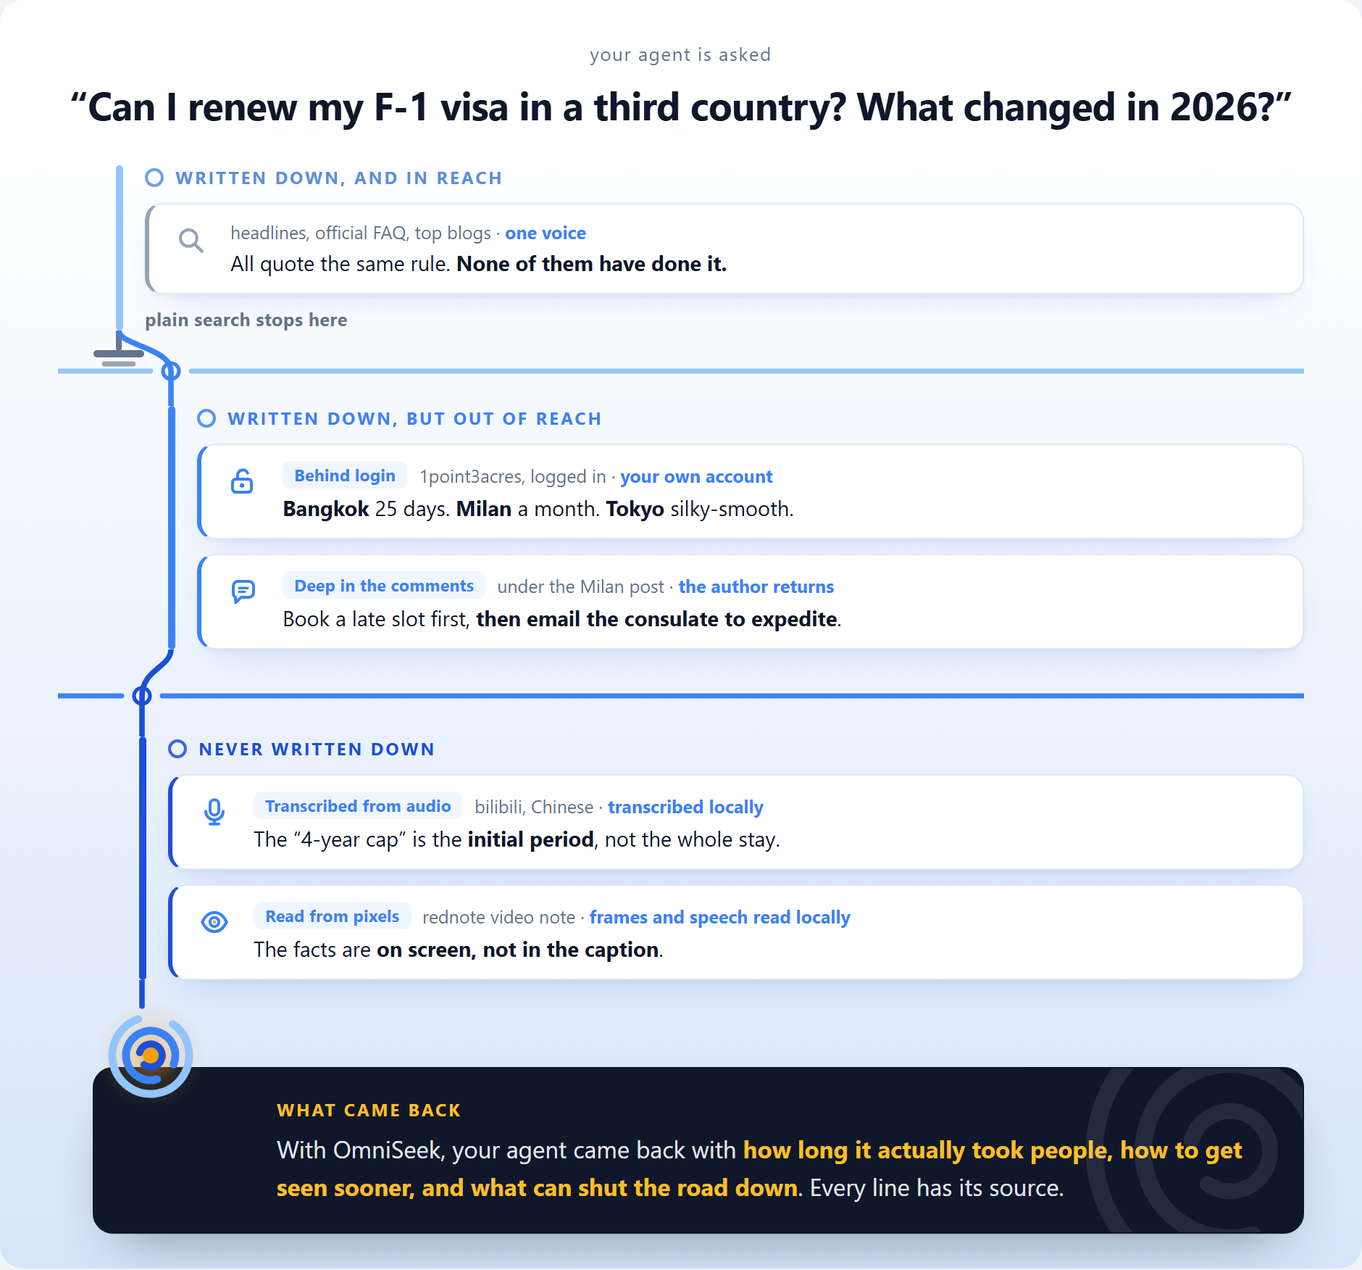
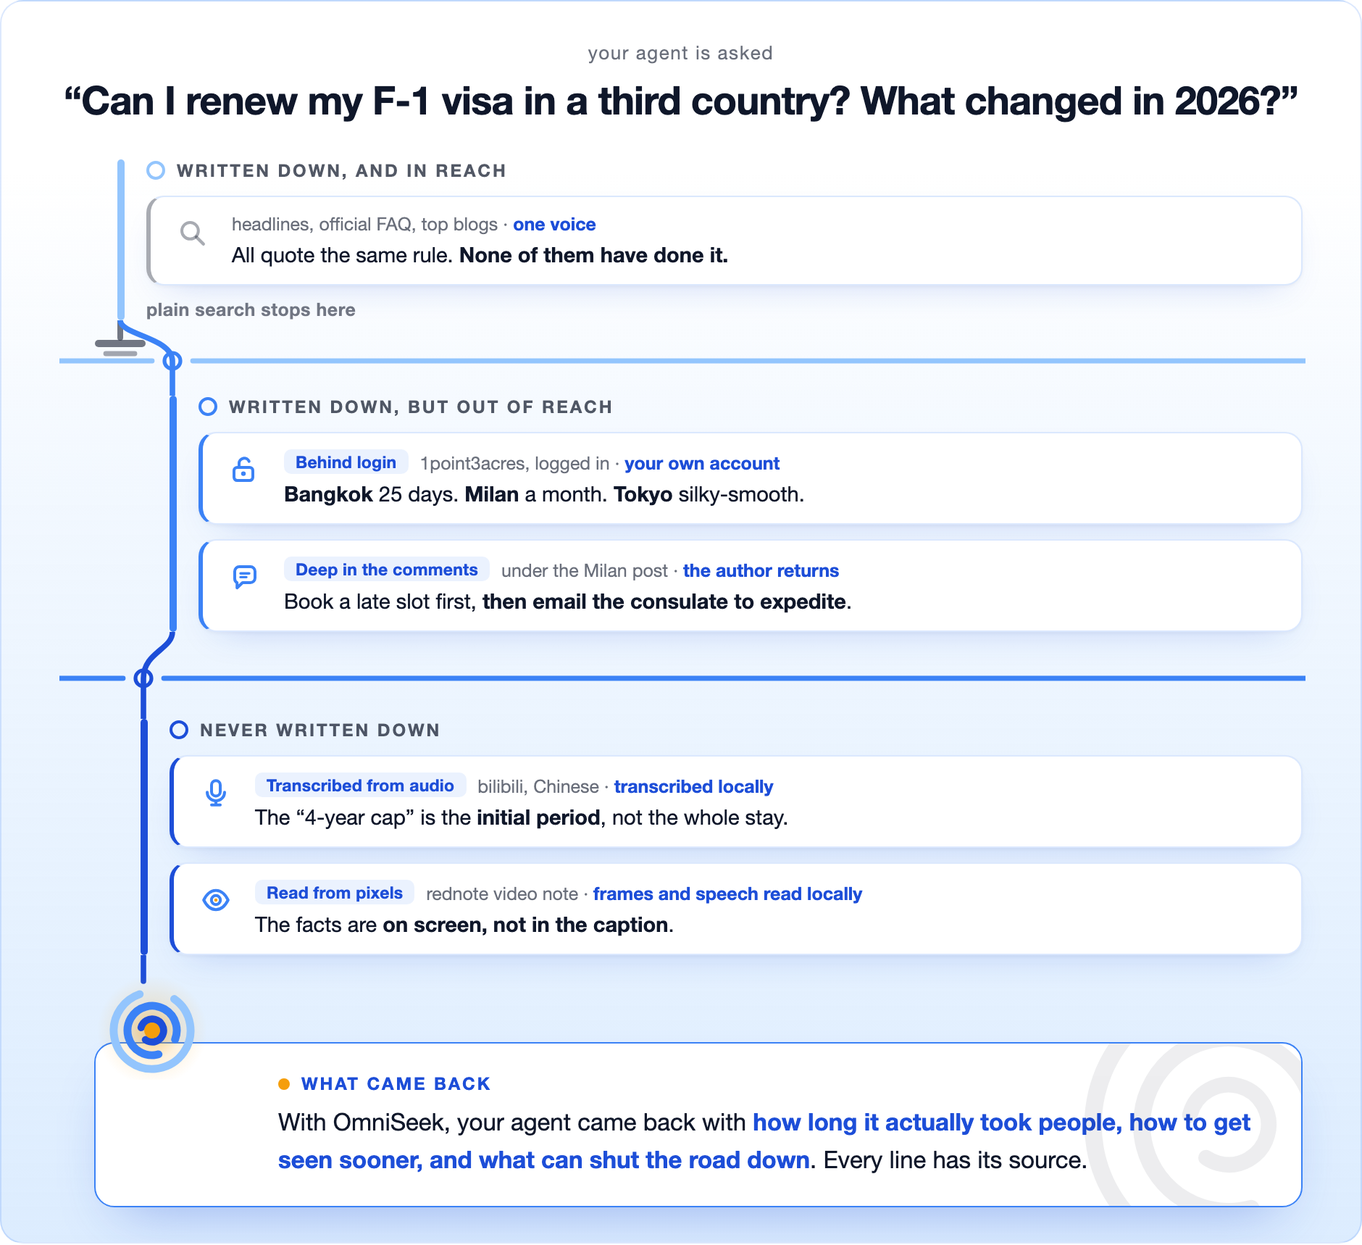
4. Brand colours only: hero, social card, demo figure and site stylesheet
- gen_hero / gen_social / gen_demo: replace slate greys and off-palette blues and ambers with
  brand colours; softer shades are navy, white or brand blue at lower opacity.
- Demo figure light theme: white arrival panel framed in blue instead of a navy block;
  transparent page around the rounded canvas; explicit Latin font before PingFang.
- Social card: echo rings in primary blue at low opacity, outer gap turned toward the text.
- site/style.css: colour tokens, brand-only values (dark theme unchanged in feel).
- BRAND.md: one line on how text and lines are coloured; CHANGELOG entry.

diff --git a/site/style.css b/site/style.css
@@ -1,54 +1,71 @@
+/* Colours: docs/BRAND.md only. The blue ramp, navy, white and the amber point; every softer
+   shade is one of those at lower opacity, never a separate grey. */
+:root {
+  --page: #0F172A;
+  --ink: #FFFFFF;
+  --text: rgba(255,255,255,.88);
+  --text-2: rgba(255,255,255,.76);
+  --muted: rgba(255,255,255,.62);
+  --faint: rgba(255,255,255,.50);
+  --link: #93C5FD;
+  --label: #93C5FD;
+  --surface: rgba(147,197,253,.06);
+  --surface-2: rgba(147,197,253,.09);
+  --line: rgba(147,197,253,.14);
+  --line-strong: rgba(59,130,246,.42);
+  --ghost-line: rgba(147,197,253,.28);
+}
 * { margin: 0; padding: 0; box-sizing: border-box; }
-body { background: #0F172A; color: #E2E8F0; font-family: -apple-system, "SF Pro Text", "Segoe UI", "PingFang SC", "Hiragino Sans", sans-serif; line-height: 1.6; }
-a { color: #93C5FD; }
+body { background: var(--page); color: var(--text); font-family: -apple-system, "SF Pro Text", "Segoe UI", "PingFang SC", "Hiragino Sans", sans-serif; line-height: 1.6; }
+a { color: var(--link); }
 .wrap { max-width: 960px; margin: 0 auto; padding: 64px 24px 40px; }
 .narrow { max-width: 760px; }
 .hero { text-align: center; }
 .mark { width: 112px; height: 112px; }
-h1 { font-size: 44px; font-weight: 700; letter-spacing: -0.02em; margin-top: 18px; color: #F8FAFC; }
+h1 { font-size: 44px; font-weight: 700; letter-spacing: -0.02em; margin-top: 18px; color: var(--ink); }
 .page h1 { font-size: 32px; line-height: 1.25; margin-top: 12px; }
-h2 { font-size: 20px; font-weight: 650; color: #F8FAFC; margin-top: 40px; }
+h2 { font-size: 20px; font-weight: 650; color: var(--ink); margin-top: 40px; }
 p { margin-top: 12px; }
-.tagline { font-size: 21px; font-weight: 650; margin-top: 10px; color: #E2E8F0; }
-.lede { font-size: 16.5px; color: #94A3B8; margin: 14px auto 0; max-width: 700px; }
-.page .lede { margin-left: 0; font-size: 17.5px; color: #CBD5E1; }
-.cat { font-size: 13px; color: #64748B; margin-top: 12px; letter-spacing: 0.02em; }
+.tagline { font-size: 21px; font-weight: 650; margin-top: 10px; color: var(--text); }
+.lede { font-size: 16.5px; color: var(--muted); margin: 14px auto 0; max-width: 700px; }
+.page .lede { margin-left: 0; font-size: 17.5px; color: var(--text-2); }
+.cat { font-size: 13px; color: var(--faint); margin-top: 12px; letter-spacing: 0.02em; }
 .crumb { font-size: 13.5px; }
-.crumb a { color: #94A3B8; text-decoration: none; }
+.crumb a { color: var(--muted); text-decoration: none; }
 .btns { margin-top: 26px; display: flex; gap: 12px; justify-content: center; flex-wrap: wrap; }
 .btn { display: inline-block; padding: 10px 22px; border-radius: 9px; font-size: 15px; font-weight: 600; text-decoration: none; }
-.btn.primary { background: #3B82F6; color: #fff; }
-.btn.ghost { border: 1px solid #334155; color: #E2E8F0; }
+.btn.primary { background: #3B82F6; color: #FFFFFF; }
+.btn.ghost { border: 1px solid var(--ghost-line); color: var(--text); }
 .btn:hover { filter: brightness(1.12); }
-.install { margin: 40px auto 0; max-width: 640px; background: #16233F; border: 1px solid #1E3A8A; border-radius: 12px; padding: 18px 22px; text-align: left; }
+.install { margin: 40px auto 0; max-width: 640px; background: var(--surface-2); border: 1px solid var(--line-strong); border-radius: 12px; padding: 18px 22px; text-align: left; }
 .page .install { margin-left: 0; margin-right: 0; max-width: none; }
-.install .lbl { font-size: 12px; color: #93C5FD; font-weight: 650; letter-spacing: 0.04em; }
-.install .note { color: #94A3B8; font-size: 13px; margin-top: 10px; }
+.install .lbl { font-size: 12px; color: var(--label); font-weight: 650; letter-spacing: 0.04em; }
+.install .note { color: var(--muted); font-size: 13px; margin-top: 10px; }
 /* Long commands wrap instead of being cut off on phone screens. */
 pre, code { font-family: "SF Mono", ui-monospace, Menlo, Consolas, monospace; }
-pre { margin: 8px 0 0; font-size: 13.5px; color: #E2E8F0; white-space: pre-wrap; overflow-wrap: anywhere; word-break: break-word; }
-code { font-size: 0.92em; background: #111C33; border-radius: 5px; padding: 1px 5px; overflow-wrap: anywhere; }
+pre { margin: 8px 0 0; font-size: 13.5px; color: var(--text); white-space: pre-wrap; overflow-wrap: anywhere; word-break: break-word; }
+code { font-size: 0.92em; background: var(--surface-2); border-radius: 5px; padding: 1px 5px; overflow-wrap: anywhere; }
 pre code { background: none; padding: 0; }
-.box { background: #111C33; border: 1px solid #1E293B; border-radius: 11px; padding: 16px 18px; margin-top: 14px; }
-.box .lbl { font-size: 12px; color: #93C5FD; font-weight: 650; letter-spacing: 0.04em; }
-.ask { font-size: 16px; color: #F8FAFC; margin-top: 6px; }
+.box { background: var(--surface); border: 1px solid var(--line); border-radius: 11px; padding: 16px 18px; margin-top: 14px; }
+.box .lbl { font-size: 12px; color: var(--label); font-weight: 650; letter-spacing: 0.04em; }
+.ask { font-size: 16px; color: var(--ink); margin-top: 6px; }
 .out { list-style: none; margin-top: 8px; }
-.out li { font-size: 14px; color: #CBD5E1; padding: 6px 0; border-top: 1px solid #1E293B; overflow-wrap: anywhere; }
+.out li { font-size: 14px; color: var(--text-2); padding: 6px 0; border-top: 1px solid var(--line); overflow-wrap: anywhere; }
 .out li:first-child { border-top: none; }
-.out .src { color: #64748B; font-size: 12.5px; margin-right: 6px; }
-.small { font-size: 13px; color: #94A3B8; }
+.out .src { color: var(--faint); font-size: 12.5px; margin-right: 6px; }
+.small { font-size: 13px; color: var(--muted); }
 ul.plain { margin: 10px 0 0 20px; }
 ul.plain li { margin-top: 6px; }
 .figure { margin-top: 48px; }
-.figure img { width: 100%; border-radius: 14px; border: 1px solid #1E293B; }
+.figure img { width: 100%; }
 .cards { margin-top: 44px; display: grid; grid-template-columns: repeat(auto-fit, minmax(240px, 1fr)); gap: 12px; }
-.card { display: block; background: #111C33; border: 1px solid #1E293B; border-radius: 11px; padding: 14px 16px; text-decoration: none; }
+.card { display: block; background: var(--surface); border: 1px solid var(--line); border-radius: 11px; padding: 14px 16px; text-decoration: none; }
 .card:hover { border-color: #3B82F6; }
-.card .t { font-weight: 650; color: #93C5FD; font-size: 14.5px; }
-.card .d { font-size: 13px; color: #94A3B8; margin-top: 5px; }
-.foot { margin-top: 52px; text-align: center; font-size: 13px; color: #64748B; border-top: 1px solid #1E293B; padding-top: 22px; }
-.foot a { color: #94A3B8; text-decoration: none; }
-.foot a:hover { color: #E2E8F0; }
+.card .t { font-weight: 650; color: var(--link); font-size: 14.5px; }
+.card .d { font-size: 13px; color: var(--muted); margin-top: 5px; }
+.foot { margin-top: 52px; text-align: center; font-size: 13px; color: var(--faint); border-top: 1px solid var(--line); padding-top: 22px; }
+.foot a { color: var(--muted); text-decoration: none; }
+.foot a:hover { color: var(--ink); }
 @media (max-width: 560px) {
   .wrap { padding: 40px 16px 32px; }
   h1 { font-size: 34px; }

diff --git a/assets/masters/gen_demo.py b/assets/masters/gen_demo.py
@@ -21,10 +21,10 @@ import re
 
 TEMPLATE = """<!doctype html><html><head><meta charset="utf-8"><style>
   * { margin:0; padding:0; box-sizing:border-box; }
-  html,body { background:@@PAGEBG@@; }
-  body { font-family:-apple-system,"SF Pro Text","Segoe UI","PingFang SC","Hiragino Sans","Hiragino Sans GB",sans-serif; padding:20px; }
+  html,body { background:transparent; }
+  body { font-family:-apple-system,"SF Pro Text","Segoe UI","Helvetica Neue",Arial,"PingFang SC","Hiragino Sans","Hiragino Sans GB",sans-serif; padding:20px; }
   /* The canvas itself descends: one gradient, three strata, darker the deeper you go. */
-  #shot { width:940px; background:@@SHOTBG@@; border-radius:16px; padding:28px 40px 24px; overflow:hidden; }
+  #shot { width:940px; background:@@SHOTBG@@; border:1px solid @@SHOTBORDER@@; border-radius:16px; padding:28px 40px 24px; overflow:hidden; }
   .ask { text-align:center; font-size:13px; color:@@MUTED@@; letter-spacing:.06em; }
   h1 { text-align:center; font-size:27px; font-weight:700; color:@@FG@@; margin-top:9px; letter-spacing:-.015em; }
   h1 + .layer { margin-top:24px; }
@@ -41,10 +41,11 @@ TEMPLATE = """<!doctype html><html><head><meta charset="utf-8"><style>
   .l2 .rail { background:@@RING2@@; }
   .l3 .rail { background:@@RING3@@; }
   .lname { font-size:12px; letter-spacing:.12em; margin-bottom:10px; font-weight:650; display:flex; align-items:center; gap:8px; }
-  .lname::before { content:""; width:9px; height:9px; border-radius:50%; border:2.5px solid currentColor; opacity:.85; }
-  .l1 .lname { color:@@RING1TEXT@@; }
-  .l2 .lname { color:@@RING2@@; }
-  .l3 .lname { color:@@RING3TEXT@@; }
+  .lname { color:@@LABEL@@; }
+  .lname::before { content:""; width:9px; height:9px; border-radius:50%; border:2.5px solid currentColor; }
+  .l1 .lname::before { border-color:@@RING1@@; }
+  .l2 .lname::before { border-color:@@RING2@@; }
+  .l3 .lname::before { border-color:@@RING3@@; }
 
   .card { display:flex; gap:14px; background:@@CARDBG@@; border:1px solid @@CARDBORDER@@; border-left:3.5px solid @@ACCENT@@; border-radius:12px; padding:11px 18px 10px; box-shadow:@@CARDSHADOW@@; }
   .card + .card { margin-top:10px; }
@@ -53,22 +54,23 @@ TEMPLATE = """<!doctype html><html><head><meta charset="utf-8"><style>
   .card .ico { flex:0 0 auto; width:24px; padding-top:3px; }
   .card .ico svg { display:block; }
   .card .meta { font-size:12.5px; color:@@MUTED@@; }
-  .card .meta b { color:@@ACCENT@@; font-weight:650; }
-  .wall { display:inline-block; font-size:11.5px; font-weight:650; letter-spacing:.01em; color:@@ACCENT@@; background:@@CHIPBG@@; border-radius:5px; padding:2px 8px; margin-right:8px; vertical-align:1px; }
+  .card .meta b { color:@@ACCENTTEXT@@; font-weight:650; }
+  .wall { display:inline-block; font-size:11.5px; font-weight:650; letter-spacing:.01em; color:@@ACCENTTEXT@@; background:@@CHIPBG@@; border-radius:5px; padding:2px 8px; margin-right:8px; vertical-align:1px; }
   .card .txt { font-size:14.5px; color:@@FG@@; line-height:1.45; margin-top:3px; }
   .card .txt b { font-weight:650; }
 
   .stopnote { margin-top:9px; font-size:12.5px; font-weight:650; color:@@STOPINK@@; letter-spacing:.02em; }
   .seam { display:block; width:860px; height:60px; }
 
-  /* Arrival: the panel inverts the page. The find is the brightest thing on the figure. */
+  /* Arrival: the panel is the one framed thing on the figure; the amber point marks the find. */
   .seam3 { position:relative; z-index:2; }
   .arrive { position:relative; margin-top:-26px; }
   .panel { position:relative; overflow:hidden; margin-left:24px; background:@@PANELBG@@; border:1px solid @@PANELBORDER@@; border-radius:14px; padding:20px 28px 19px 126px; box-shadow:@@PANELSHADOW@@; }
-  .aname { font-size:12px; letter-spacing:.12em; margin-bottom:7px; font-weight:650; color:@@PANELAMBER@@; }
+  .aname { font-size:12px; letter-spacing:.12em; margin-bottom:7px; font-weight:650; color:@@PANELLABEL@@; display:flex; align-items:center; gap:8px; }
+  .aname::before { content:""; width:8px; height:8px; border-radius:50%; background:#F59E0B; }
   .panel .say { font-size:16.5px; color:@@PANELFG@@; line-height:1.55; }
-  .panel .say b { color:@@PANELAMBER@@; font-weight:650; }
-  .panel .echo { position:absolute; right:-70px; top:50%; transform:translateY(-50%); opacity:.09; }
+  .panel .say b { color:@@PANELBOLD@@; font-weight:650; }
+  .panel .echo { position:absolute; right:-70px; top:50%; transform:translateY(-50%); opacity:@@ECHO@@; }
 </style></head><body>
 <div id="shot">
   <div class="ask">@@ASK@@</div>
@@ -158,41 +160,44 @@ TEMPLATE = """<!doctype html><html><head><meta charset="utf-8"><style>
 </body></html>
 """
 
+# Brand colours only (docs/BRAND.md): the blue ramp, navy, white, and the amber point. Text,
+# hairlines and tints are navy or white (or a brand blue) at lower opacity, so nothing on the
+# figure is a colour the palette does not have. The PNG has a transparent page around the
+# rounded canvas, so it sits on GitHub's white or near-black page without a coloured fringe.
 MODES = {
     "light": {
-        "@@PAGEBG@@": "#f1f5f9", "@@FG@@": "#0F172A",
-        # one canvas, three strata: white at the surface, unmistakably blue at depth
-        "@@SHOTBG@@": "linear-gradient(180deg, #FFFFFF 0%, #FDFEFF 16%, #F4F8FE 36%, #EAF1FD 60%, #DFEAFB 82%, #D6E4FA 100%)",
-        "@@MUTED@@": "#64748B", "@@MUTED2@@": "#475569",
-        "@@CARDBG@@": "#FFFFFF", "@@CARDBORDER@@": "#E2E8F0",
+        "@@FG@@": "#0F172A",
+        # one canvas, three strata: white at the surface, shallow blue at depth
+        "@@SHOTBG@@": "linear-gradient(180deg, #FFFFFF 0%, #FFFFFF 14%, rgba(147,197,253,.12) 40%, rgba(147,197,253,.22) 70%, rgba(147,197,253,.32) 100%), #FFFFFF",
+        "@@SHOTBORDER@@": "rgba(59,130,246,.18)",
+        "@@MUTED@@": "rgba(15,23,42,.62)", "@@LABEL@@": "rgba(15,23,42,.72)",
+        "@@CARDBG@@": "#FFFFFF", "@@CARDBORDER@@": "rgba(59,130,246,.18)",
         "@@CARDSHADOW@@": "0 1px 2px rgba(15,23,42,.04), 0 10px 26px -14px rgba(29,78,216,.28)",
-        "@@ACCENT@@": "#3B82F6", "@@AMBERTEXT@@": "#B45309",
-        "@@SURFRAIL@@": "#94A3B8", "@@STOPINK@@": "#64748B", "@@CHIPBG@@": "#EFF6FF",
-        # the arrival panel inverts the page: the find sits on navy, lit amber
-        "@@PANELBG@@": "#0F172A", "@@PANELFG@@": "#E2E8F0", "@@PANELAMBER@@": "#FBBF24",
-        "@@PANELBORDER@@": "#0F172A",
-        "@@PANELSHADOW@@": "0 18px 40px -18px rgba(15,23,42,.45)",
+        "@@ACCENT@@": "#3B82F6", "@@ACCENTTEXT@@": "#1D4ED8",
+        "@@SURFRAIL@@": "rgba(15,23,42,.36)", "@@STOPINK@@": "rgba(15,23,42,.58)", "@@CHIPBG@@": "rgba(59,130,246,.10)",
+        # the arrival panel stays light: white, framed in primary blue, lifted by a blue shadow
+        "@@PANELBG@@": "#FFFFFF", "@@PANELFG@@": "#0F172A", "@@PANELLABEL@@": "#1D4ED8", "@@PANELBOLD@@": "#1D4ED8",
+        "@@PANELBORDER@@": "#3B82F6", "@@ECHO@@": ".07",
+        "@@PANELSHADOW@@": "0 18px 40px -18px rgba(29,78,216,.40)",
         # the three rings of the mark, in order of depth
         "@@RING1@@": "#93C5FD", "@@RING2@@": "#3B82F6", "@@RING3@@": "#1D4ED8",
-        # ring 1 is too pale to set type in on white, so the layer name gets a readable sibling
-        "@@RING1TEXT@@": "#5B8FD9", "@@RING3TEXT@@": "#1D4ED8",
     },
     "dark": {
-        "@@PAGEBG@@": "#0d1117", "@@FG@@": "#E2E8F0",
-        # the same descent at night: navy at the surface, near-black at depth
-        "@@SHOTBG@@": "linear-gradient(180deg, #152238 0%, #121D31 24%, #0E1626 52%, #0A1120 78%, #070D19 100%)",
-        "@@MUTED@@": "#94A3B8", "@@MUTED2@@": "#A8B4C4",
-        "@@CARDBG@@": "#172440", "@@CARDBORDER@@": "#25395F",
-        "@@CARDSHADOW@@": "0 1px 2px rgba(0,0,0,.3), 0 12px 30px -16px rgba(0,0,0,.6)",
-        "@@ACCENT@@": "#60A5FA", "@@AMBERTEXT@@": "#FBBF24",
-        "@@SURFRAIL@@": "#64748B", "@@STOPINK@@": "#94A3B8", "@@CHIPBG@@": "#1E3A5F",
-        # at full depth the find is the light source: amber-edged panel on near-black
-        "@@PANELBG@@": "#0A1322", "@@PANELFG@@": "#E2E8F0", "@@PANELAMBER@@": "#FBBF24",
-        "@@PANELBORDER@@": "rgba(245,158,11,.32)",
+        "@@FG@@": "rgba(255,255,255,.94)",
+        # the same descent at night: shallow blue haze at the surface, plain navy at depth
+        "@@SHOTBG@@": "linear-gradient(180deg, rgba(147,197,253,.10) 0%, rgba(147,197,253,.06) 30%, rgba(147,197,253,0) 75%), #0F172A",
+        "@@SHOTBORDER@@": "rgba(147,197,253,.14)",
+        "@@MUTED@@": "rgba(255,255,255,.62)", "@@LABEL@@": "rgba(255,255,255,.74)",
+        "@@CARDBG@@": "rgba(147,197,253,.07)", "@@CARDBORDER@@": "rgba(147,197,253,.16)",
+        "@@CARDSHADOW@@": "0 1px 2px rgba(15,23,42,.4), 0 12px 30px -16px rgba(15,23,42,.8)",
+        "@@ACCENT@@": "#3B82F6", "@@ACCENTTEXT@@": "#93C5FD",
+        "@@SURFRAIL@@": "rgba(255,255,255,.34)", "@@STOPINK@@": "rgba(255,255,255,.58)", "@@CHIPBG@@": "rgba(59,130,246,.22)",
+        # at full depth the find is the light source: navy panel edged and lit by the amber point
+        "@@PANELBG@@": "#0F172A", "@@PANELFG@@": "rgba(255,255,255,.94)", "@@PANELLABEL@@": "#93C5FD", "@@PANELBOLD@@": "#FFFFFF",
+        "@@PANELBORDER@@": "rgba(245,158,11,.36)", "@@ECHO@@": ".09",
         "@@PANELSHADOW@@": "0 0 46px -14px rgba(245,158,11,.28)",
         # BRAND.md: the innermost ring lifts to #2563EB on navy, where #1D4ED8 loses contrast
         "@@RING1@@": "#93C5FD", "@@RING2@@": "#3B82F6", "@@RING3@@": "#2563EB",
-        "@@RING1TEXT@@": "#93C5FD", "@@RING3TEXT@@": "#60A5FA",
     },
 }
 

diff --git a/assets/masters/gen_social.py b/assets/masters/gen_social.py
@@ -4,7 +4,9 @@
 Composition: the mark at depth on the navy field, lit by its own amber centre, with two
 faint echo rings widening outward; the wordmark and tagline answer on the right. After
 re-rendering, the PNG still has to be uploaded in the repository's social preview
-setting by hand; committing it here only versions the master.
+setting by hand; committing it here only versions the master. Colours are the brand palette
+only (docs/BRAND.md): white text at lower opacity for the tagline, primary blue at low opacity
+for the echo rings.
 """
 import pathlib
 
@@ -17,10 +19,10 @@ HTML = """<!doctype html><html><head><meta charset="utf-8"><style>
           font-family:-apple-system,"SF Pro Display","Segoe UI",sans-serif; }
   .field { position:absolute; inset:0; }
   .text { position:absolute; left:560px; top:50%; transform:translateY(-50%); }
-  .name { font-size:98px; font-weight:750; letter-spacing:-.025em; color:#F1F5F9; line-height:1; }
-  .tag { font-size:31px; font-weight:500; color:#94A3B8; margin-top:18px; letter-spacing:-.005em; line-height:1.3; }
+  .name { font-size:98px; font-weight:750; letter-spacing:-.025em; color:#FFFFFF; line-height:1; }
+  .tag { font-size:31px; font-weight:500; color:rgba(255,255,255,.72); margin-top:18px; letter-spacing:-.005em; line-height:1.3; }
   .tag .dot { color:#F59E0B; font-weight:800; }
-  .sub { font-size:22px; font-weight:500; color:#64748B; margin-top:14px; }
+  .sub { font-size:22px; font-weight:500; color:rgba(255,255,255,.50); margin-top:14px; }
 </style></head><body>
 <div id="shot">
   <svg class="field" viewBox="0 0 1280 640" xmlns="http://www.w3.org/2000/svg">
@@ -34,13 +36,13 @@ HTML = """<!doctype html><html><head><meta charset="utf-8"><style>
     <g transform="translate(300 320)">
       <circle r="188" fill="url(#glow)"/>
       <g transform="translate(-160 -160) scale(1.6)">
-        <circle cx="100" cy="100" r="97" fill="none" stroke="#1E3A5F" stroke-width="5" stroke-linecap="round" stroke-dasharray="540 70" transform="rotate(140 100 100)" opacity=".55"/>
+        <circle cx="100" cy="100" r="97" fill="none" stroke="#3B82F6" stroke-width="5" stroke-linecap="round" stroke-dasharray="540 70" transform="rotate(140 100 100)" opacity=".22"/>
         <circle cx="100" cy="100" r="78" fill="none" stroke="#93C5FD" stroke-width="16" stroke-linecap="round" stroke-dasharray="416 74" transform="rotate(-55 100 100)"/>
         <circle cx="100" cy="100" r="50" fill="none" stroke="#3B82F6" stroke-width="16" stroke-linecap="round" stroke-dasharray="267 47" transform="rotate(75 100 100)"/>
         <circle cx="100" cy="100" r="23" fill="none" stroke="#2563EB" stroke-width="15" stroke-linecap="round" stroke-dasharray="116 28" transform="rotate(195 100 100)"/>
         <circle cx="100" cy="100" r="16" fill="#F59E0B"/>
       </g>
-      <circle r="252" fill="none" stroke="#1E3A5F" stroke-width="3" stroke-linecap="round" stroke-dasharray="1220 180" transform="rotate(20)" opacity=".4"/>
+      <circle r="252" fill="none" stroke="#3B82F6" stroke-width="3" stroke-linecap="round" stroke-dasharray="1220 180" transform="rotate(75)" opacity=".16"/>
     </g>
   </svg>
   <div class="text">

diff --git a/assets/masters/gen_hero.py b/assets/masters/gen_hero.py
@@ -35,8 +35,10 @@ TEMPLATE = """<!doctype html><html><head><meta charset="utf-8"><style>
 </body></html>"""
 
 MODES = {
-    "light": {"fg": "#0F172A", "muted": "#475569", "ring3": "#1D4ED8"},
-    "dark": {"fg": "#F1F5F9", "muted": "#94A3B8", "ring3": "#2563EB"},
+    # Brand colours only (docs/BRAND.md): navy text on light pages, white on dark, and the tagline
+    # is the same colour at lower opacity, so it blends with whatever page the PNG sits on.
+    "light": {"fg": "#0F172A", "muted": "rgba(15, 23, 42, .72)", "ring3": "#1D4ED8"},
+    "dark": {"fg": "#FFFFFF", "muted": "rgba(255, 255, 255, .70)", "ring3": "#2563EB"},
 }
 
 # Taglines match each README's own wording; the terminal stop is split out so it can be amber.

diff --git a/assets/masters/render_demo.py b/assets/masters/render_demo.py
@@ -17,7 +17,7 @@ with sync_playwright() as p:
     for html, out in JOBS:
         page.goto((BASE / html).as_uri())
         page.wait_for_timeout(400)
-        page.locator("#shot").screenshot(path=str(BASE / out))
+        page.locator("#shot").screenshot(path=str(BASE / out), omit_background=True)
         print(out, (BASE / out).stat().st_size, "bytes")
     ctx.close()
     browser.close()

diff --git a/docs/BRAND.md b/docs/BRAND.md
@@ -33,6 +33,8 @@ The blue ramp is depth: the further in, the deeper the shade. The single amber p
 - Navy field: `#0F172A` (dark backgrounds, the hero and social card)
 - Amber find: `#F59E0B` (the center point, and only the center point; a thread of lineage from the project's earlier palette)
 
+Text and lines use no other colours. On light backgrounds text is navy, on dark backgrounds white; secondary text, hairlines and tinted surfaces are navy, white or a brand blue at lower opacity (for example `rgba(15,23,42,.62)` for muted text on white). No separate greys. Amber is never set as body text on a light background, where it is too faint to read.
+
 ## Mark
 
 **The deep O.** Three concentric rings, each with one opening, the openings rotated layer by layer: the way in exists, but it is not a straight line. That is seeking, as opposed to searching. The amber point at the center is the thing found at depth. Read as a whole, the rings and the point are also an iris and a pupil: the mark quietly remains an eye without saying so.

diff --git a/CHANGELOG.md b/CHANGELOG.md
@@ -34,6 +34,10 @@ connection with two commands, and every place that explains installing should sa
 - **Hero images and social card re-rendered with the new tagline** (English, Chinese, Japanese;
   light and dark). The READMEs open with the hero again, and the site's link-share image is the
   social card again.
+- **Brand colours only.** The hero, social card, demo figure and site stylesheet now use only the
+  colours in `docs/BRAND.md`; softer text and lines are navy or white at lower opacity instead of
+  separate greys. The light demo figure ends in a white panel framed in blue instead of a navy
+  block, and its corners are transparent so it sits cleanly on GitHub's light and dark pages.
 - **Docs say it plainly.** The configuration, tools, patterns and login-site pages, the source
   catalog header and the Japanese README use everyday words instead of project jargon: "sites
   behind a login", "access level", "run only when named", "source review". Field values and names
